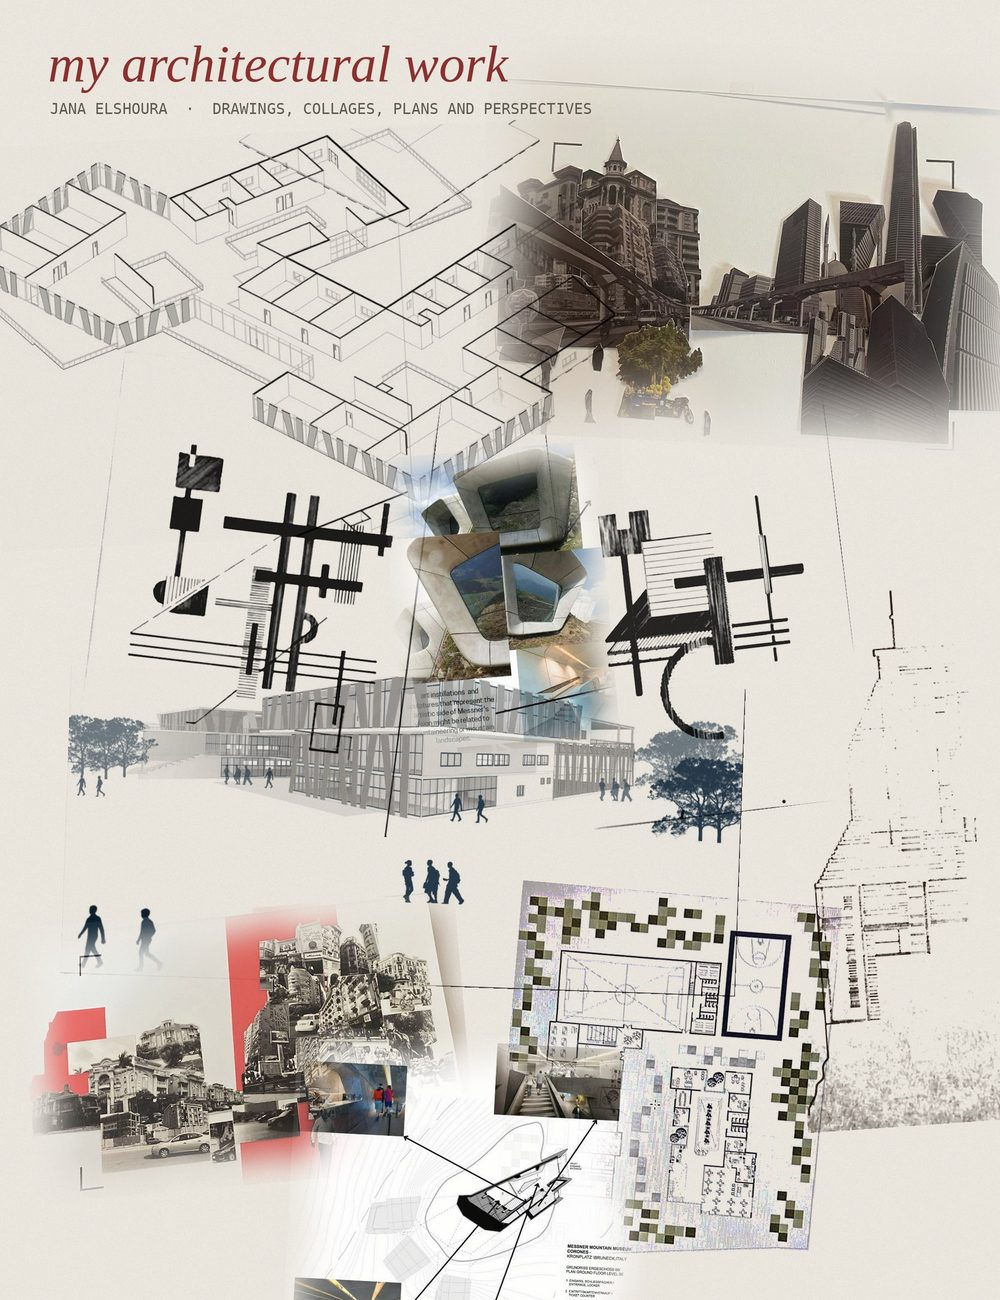
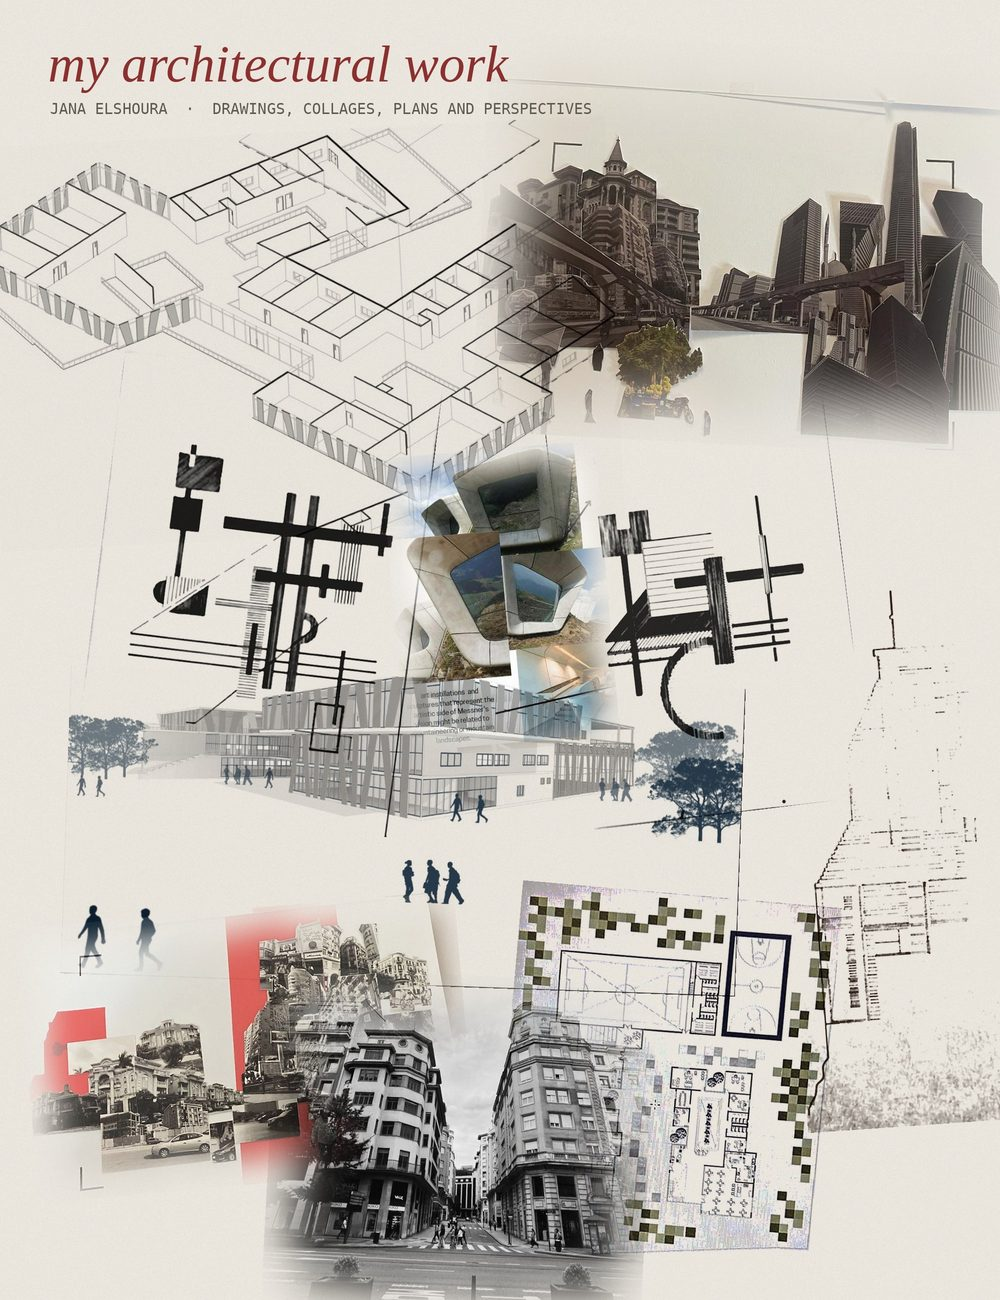
Swap museum plan for Jana's street photo in collage
Claude-Session: https://claude.ai/code/session_01RWhRtLdeFxWxPncqja81Qc

Changed region(s): [[0.248, 0.7385, 0.651, 1.0]]

diff --git a/index.html b/index.html
@@ -221,7 +221,7 @@ footer{font:400 11px/1.5 var(--mono);letter-spacing:.12em;text-transform:upperca
       <p>I left architecture because I love creativity most when it is free. Still, it shaped me more than any single course or degree could, and I carry that love for design into everything I do, now with the skills to make it real.</p>
     </div>
     <figure class="collage">
-      <a href="img/architecture-board.jpg" target="_blank" rel="noopener"><img src="img/architecture-board-sm.jpg" alt="Collage of Jana's architecture work blended together: her final photo collage, an exploded axonometric, abstraction drawings, a 3D city collage, a perspective, city collages, a site plan and a hand drawn elevation" loading="lazy"></a>
+      <a href="img/architecture-board.jpg" target="_blank" rel="noopener"><img src="img/architecture-board-sm.jpg" alt="Collage of Jana's architecture work blended together: her final photo collage, an exploded axonometric, abstraction drawings, a 3D city collage, her own street photograph, a perspective, city collages, a site plan and a hand drawn elevation" loading="lazy"></a>
       <figcaption>My architecture work, blended into one board. Tap to see it full size.</figcaption>
     </figure>
   </section>
